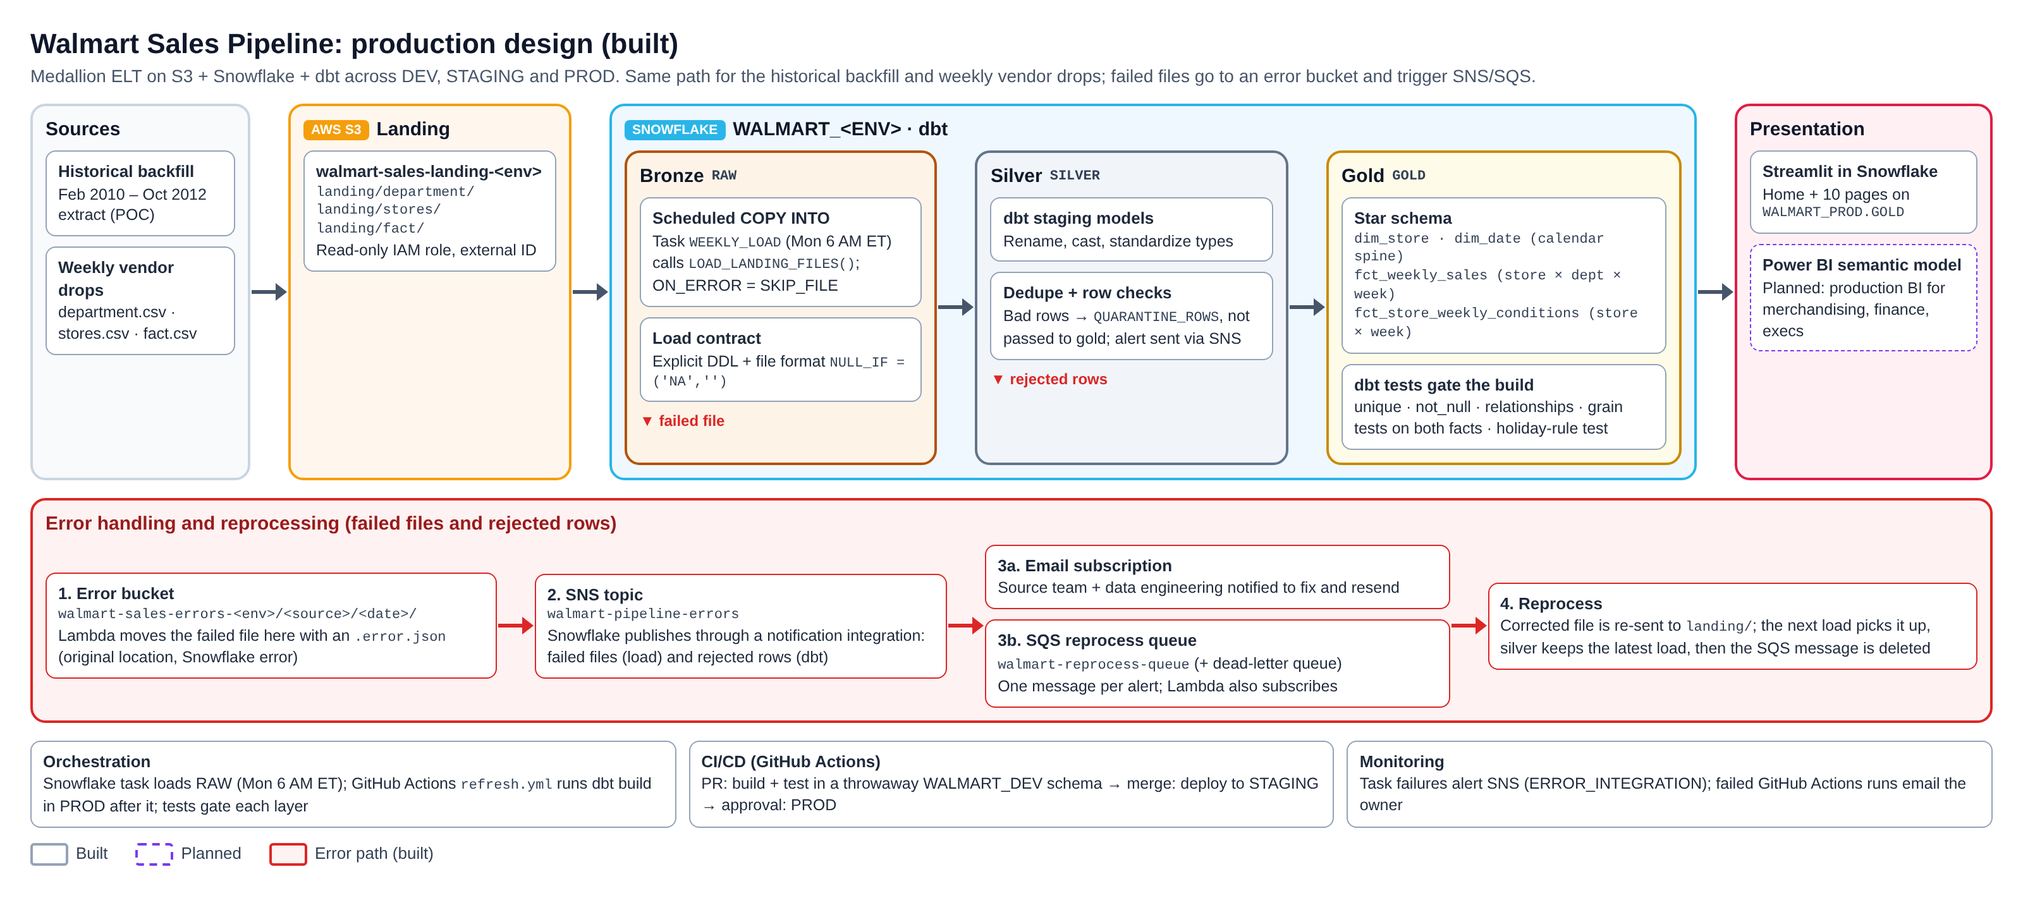
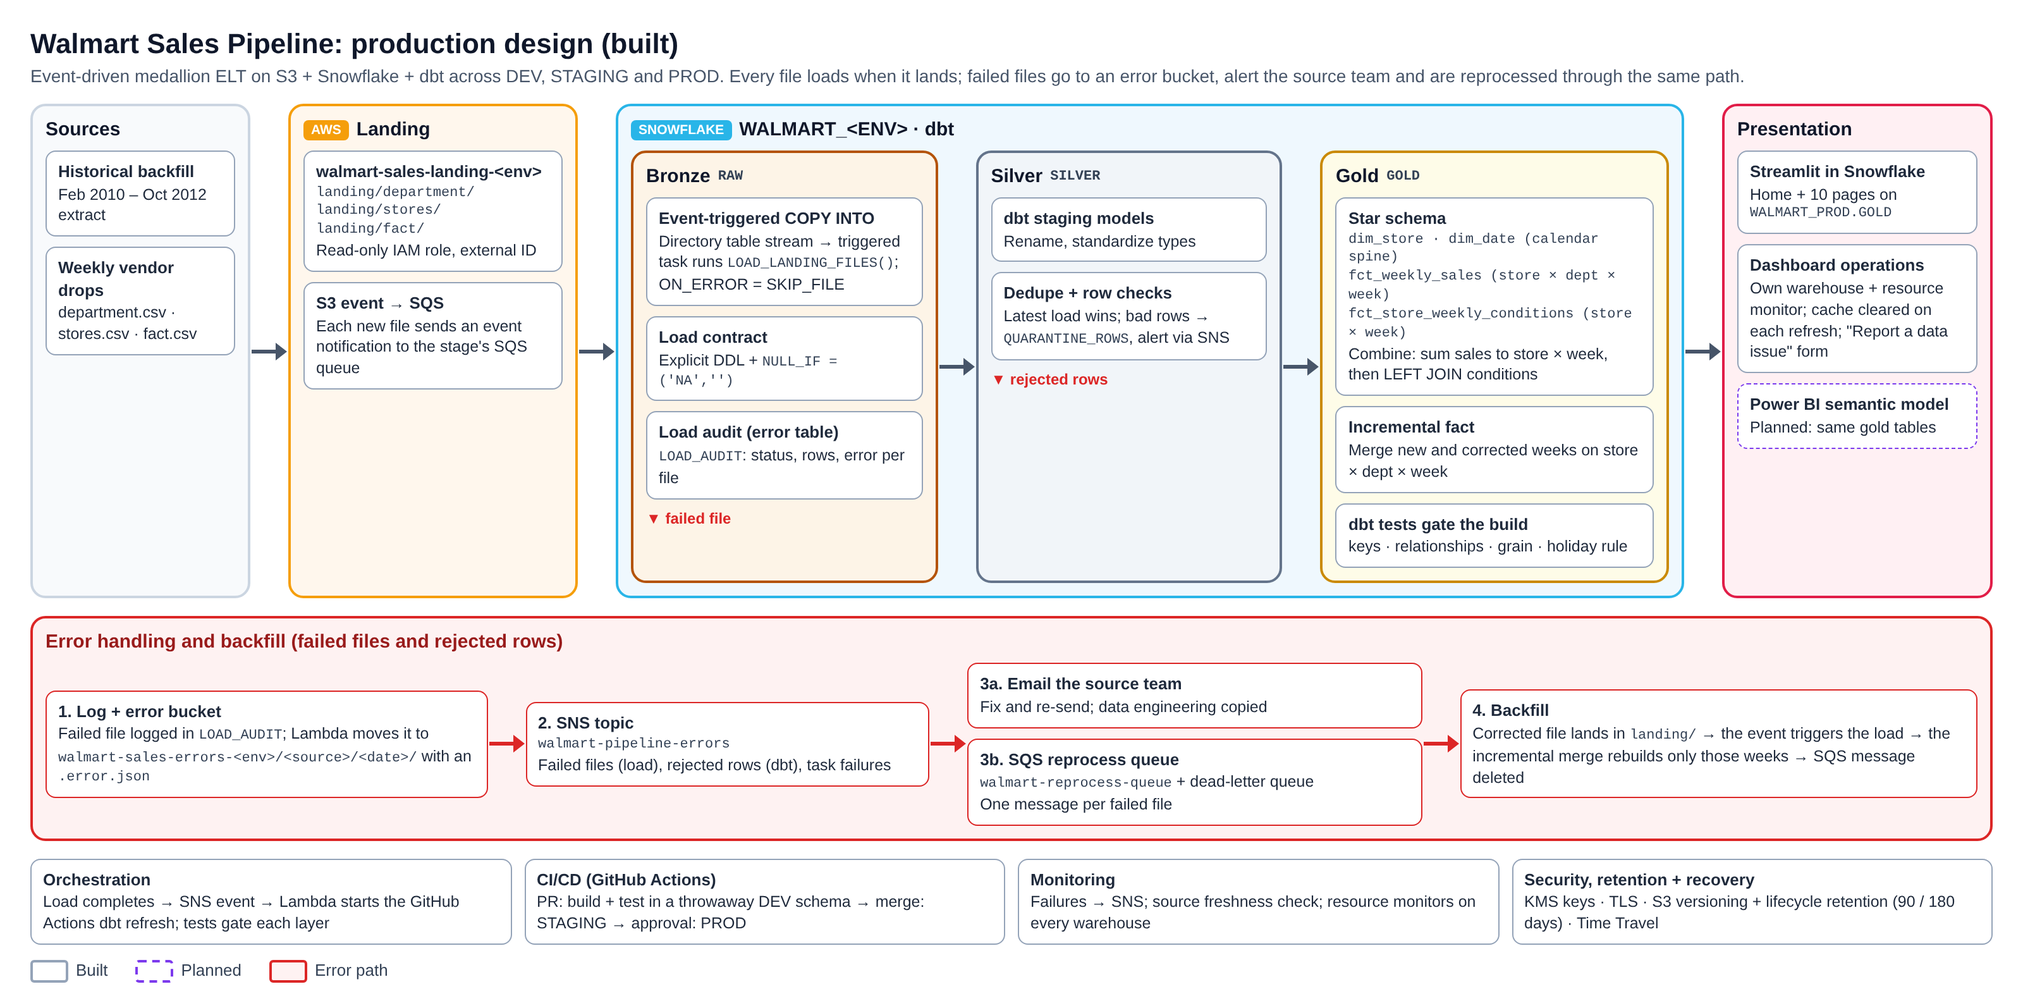
Add error path and update README, runbook and diagram to the production design

Changed region(s): [[0.0, 0.0312, 1.0, 0.9688]]

diff --git a/README.md b/README.md
@@ -3,50 +3,53 @@
 [![dbt CI](https://github.com/peter-rousseau518/walmart-sales-dbt-snowflake/actions/workflows/ci.yml/badge.svg)](https://github.com/peter-rousseau518/walmart-sales-dbt-snowflake/actions/workflows/ci.yml)
 [![dbt deploy](https://github.com/peter-rousseau518/walmart-sales-dbt-snowflake/actions/workflows/deploy.yml/badge.svg)](https://github.com/peter-rousseau518/walmart-sales-dbt-snowflake/actions/workflows/deploy.yml)
 
-An end-to-end analytics pipeline. Weekly CSV files land in S3, a scheduled Snowflake task loads them into a
-raw layer under an explicit load contract, dbt models them into a star schema (bronze → silver → gold), and a
-multi-page Streamlit in Snowflake app reads the gold tables. The pipeline runs in three environments (DEV,
-STAGING, PROD) with CI/CD in GitHub Actions, and failed files and rejected rows are routed to an error path
-with SNS alerts, an SQS reprocess queue and an error bucket.
+An event-driven analytics pipeline. Each CSV file that lands in S3 triggers a load into a Snowflake raw layer under
+an explicit load contract; dbt models it into a tested star schema (bronze → silver → gold); and a multi-page
+Streamlit in Snowflake app reads the gold tables. The pipeline runs in DEV, STAGING and PROD with CI/CD in GitHub
+Actions. Failed files and rejected rows follow an error path (load audit table, error bucket, SNS alerts to the
+source team, SQS reprocess queue with dead-letter queues) and are backfilled automatically when corrected.
 
 ## Architecture
 
-![Production design](docs/images/architecture-production-design.png)
+![Production architecture](docs/images/architecture-production-design.png)
 
 | Layer | Where | What happens |
 |---|---|---|
-| Landing | S3 `walmart-sales-landing-<env>` | Weekly files arrive in `landing/department/`, `landing/stores/`, `landing/fact/` |
-| Bronze | Snowflake `WALMART_<ENV>.RAW` | Task `WEEKLY_LOAD` (Mondays 6 AM ET) runs `LOAD_LANDING_FILES()`: COPY INTO typed tables, `ON_ERROR = SKIP_FILE` |
-| Silver | `WALMART_<ENV>.SILVER` | dbt views: rename, cast, de-duplicate (latest load wins), row checks; bad rows go to `QUARANTINE_ROWS` |
-| Gold | `WALMART_<ENV>.GOLD` | dbt tables: star schema with 2 dimensions and 2 facts, gated by tests |
-| Presentation | Streamlit in Snowflake | Home page + 10 pages reading `WALMART_PROD.GOLD` |
-| Error path | S3, SNS, SQS, Lambda | Failed files moved to `walmart-sales-errors-<env>`; alerts by email and to `walmart-reprocess-queue` |
+| Landing | S3 `walmart-sales-landing-<env>` | Files arrive in `landing/department/`, `landing/stores/`, `landing/fact/`; each new file sends an S3 event to SQS |
+| Bronze | Snowflake `WALMART_<ENV>.RAW` | The event triggers a task that runs `LOAD_LANDING_FILES()`: COPY INTO typed tables, `ON_ERROR = SKIP_FILE`, every file logged in `LOAD_AUDIT` |
+| Silver | `WALMART_<ENV>.SILVER` | dbt views: rename, standardize, de-duplicate (latest load wins), row checks; bad rows go to `QUARANTINE_ROWS` |
+| Gold | `WALMART_<ENV>.GOLD` | dbt tables: star schema with 2 dimensions and 2 facts (sales fact is incremental), gated by tests |
+| Presentation | Streamlit in Snowflake | Home page + 10 pages on `WALMART_PROD.GOLD`, on its own warehouse, with a "Report a data issue" form |
+| Error path | S3, SNS, SQS, Lambda | Failed files moved to `walmart-sales-errors-<env>`; source team emailed; `walmart-reprocess-queue` tracks the backfill |
 
 ## What I built
 
 - **Three environments** (DEV, STAGING, PROD): one S3 landing bucket and one Snowflake database each, connected
-  through a storage integration with a read-only IAM policy scoped to the `landing/` folders
+  through a storage integration with a read-only IAM role (external ID) scoped to the `landing/` folders
+- **Event-driven ingestion with SQS:** S3 event notifications go to an SQS queue; Snowflake refreshes the stage's
+  directory table, a stream records each new file, and a triggered task runs COPY INTO. COPY's load history means a
+  file never loads twice
 - **An explicit load contract:** typed raw tables with NOT NULL keys and a file format that turns "NA" into NULL.
   Every row records its source file, row number and load time
-- **Scheduled ingestion:** a Snowflake task calls a stored procedure that runs COPY INTO for each source. COPY
-  tracks load history, so files already loaded are never loaded twice (idempotent)
+- **A load audit (error) table:** `RAW.LOAD_AUDIT` records every file's status, row count and first error. If 900 of
+  1,000 files are good, those 900 flow through; the 100 bad files go to the error path
+- **Error handling with SNS and SQS:** failed files, rejected rows and task failures publish to the SNS topic
+  `walmart-pipeline-errors`, which emails the source team, adds a message to `walmart-reprocess-queue` (with a
+  dead-letter queue), and triggers a Lambda that moves the file to the error bucket with an `.error.json`
+- **Automatic backfill:** a corrected file re-sent to `landing/` triggers its own load; the incremental fact merges
+  only the affected weeks, and the SQS message is cleared once `LOAD_AUDIT` shows it loaded
 - **Medallion schemas:** RAW (bronze), SILVER (staging views and the quarantine table), GOLD (mart tables)
 - **Row-level data quality:** checks flag duplicates, unknown stores and missing sales. Good rows flow to gold; the
-  rest land in `SILVER.QUARANTINE_ROWS` with a `reject_reason`, and a warn-level test reports them
-- **Error path:** files that break the contract are skipped and published to SNS. A Lambda moves each failed file
-  to the error bucket with an `.error.json` describing why; email alerts the source team; the SQS queue (with a
-  dead-letter queue) tracks files waiting to be reprocessed. Rejected rows in PROD also trigger an SNS alert
-- **CI/CD with GitHub Actions:** every pull request is built and tested in its own throwaway schema in DEV; merging
-  to `main` deploys to STAGING, then to PROD after a manual approval. A scheduled workflow refreshes PROD after the
-  weekly load. CI runs as a key-pair service user with a least-privilege `TRANSFORMER` role
-- **A dbt project** with 2 dimensions (`dim_store`, and `dim_date` as a calendar spine) and 2 fact tables, each at
-  its true grain: `fct_weekly_sales` (store × department × week, about 421K rows) and `fct_store_weekly_conditions`
-  (store × week)
-- **dbt tests:** unique, not_null, relationships from each fact to each dimension, grain tests on both facts
-  (`dbt_utils.unique_combination_of_columns` plus a custom singular test), a test that the calendar's holiday rules
-  match the source holiday flags, and a warning test on quarantined rows
-- **A 10-page Streamlit app** covering sales by store, holiday, temperature, store size, store type, month,
-  markdowns, fuel price, CPI, and department
+  rest land in `SILVER.QUARANTINE_ROWS` with a `reject_reason`, and PROD sends an alert
+- **Incremental processing:** `fct_weekly_sales` reads only rows loaded since the last run and merges them on store,
+  department and week, so corrected weeks replace old rows instead of duplicating them
+- **CI/CD with GitHub Actions:** every pull request is built and tested in its own throwaway schema in DEV; merging to
+  `main` deploys to STAGING, then to PROD after a manual approval. After each load, a Lambda starts the dbt refresh in
+  PROD. CI runs as a key-pair service user with a least-privilege `TRANSFORMER` role
+- **dbt tests:** unique, not_null, relationships from each fact to each dimension, grain tests on both facts, a
+  holiday-rule test, a warning test on quarantined rows, and a source freshness check
+- **A 10-page Streamlit app** on its own warehouse with a resource monitor; its cache clears after every dbt refresh,
+  and a "Report a data issue" form sends problems straight to data engineering
 
 ## Data model
 
@@ -61,33 +64,39 @@ with SNS alerts, an SQS reprocess queue and an error bucket.
 
 ## Data quality decisions
 
-- Weekly conditions (temperature, CPI, fuel price, markdowns) are recorded per store and week, so they live in their
-  own fact table at that grain instead of repeating on every department row. To combine them with sales, aggregate
-  sales to store-week first, then join (the app does this).
-- The source writes missing values as the text "NA" (markdowns, CPI, unemployment). The load contract converts them
-  to NULL at the warehouse gate (`NULL_IF = ('NA', '')`). MarkDown1 is missing in about 51% of rows because markdown
-  data starts in November 2011.
-- Two levels of protection: **file level** (a file that breaks the contract is skipped whole and sent to the error
-  path) and **row level** (a bad row in a good file is quarantined, so one bad row never blocks a whole load).
-- Re-sent rows are de-duplicated in silver: the latest load wins, so a corrected file can simply be re-sent.
-- Grain tests check that no store/department/week (sales) or store/week (conditions) combination appears twice.
-- `dim_date` is generated as a calendar spine with retail holiday rules and a `has_sales` flag, so weeks without
-  sales data are never counted by mistake.
+- **Each fact at its own grain.** Weekly conditions (temperature, CPI, fuel price, markdowns) are recorded per store and
+  week, so they live in their own fact instead of repeating on every department row.
+- **Why a LEFT JOIN to combine them.** The app sums sales to store-week first, then LEFT JOINs the conditions fact on
+  store and week. LEFT keeps every sales week even if its conditions row is missing (an INNER JOIN would drop those
+  sales). The risks and how they're handled: fan-out (the conditions grain test guarantees one row per store-week, so
+  the join can't add rows); repeated values (joining at department grain overstated markdowns ~65× in my first
+  version, so the app aggregates first); and NULLs (shown as "no data", never as zero).
+- **"NA" handled at the gate.** The load contract converts "NA" to NULL (`NULL_IF = ('NA', '')`). MarkDown1 is missing
+  in about 51% of rows because markdown data starts in November 2011.
+- **Two levels of protection:** file level (a file that breaks the contract is skipped and sent to the error path) and
+  row level (a bad row in a good file is quarantined, so one bad row never blocks a load).
+- `dim_date` is a calendar spine with retail holiday rules and a `has_sales` flag, so empty weeks are never averaged.
 
-## Error handling and reprocessing
+## Security, retention and cost
 
-1. The weekly load skips any file that breaks the load contract (`ON_ERROR = SKIP_FILE`), so good files still load.
-2. The procedure collects the skipped files and publishes a `FAILED_FILES` message to the SNS topic
-   `walmart-pipeline-errors` through a Snowflake notification integration.
-3. SNS fans out to three subscribers: **email** (source team and data engineering), the **SQS** queue
-   `walmart-reprocess-queue` (one message per alert, with a dead-letter queue), and the **Lambda**
-   `walmart-move-failed-files`, which moves the file to `walmart-sales-errors-<env>/<source>/<date>/` with an
-   `.error.json` (original location, source table and Snowflake's first error).
-4. The source team fixes the file and re-sends it to `landing/`. The next load picks it up, silver keeps the latest
-   load, and the SQS message is deleted once the data is confirmed.
-5. If the task itself fails (for example, the stage can't be reached), its `ERROR_INTEGRATION` alerts the same topic.
+- **Access:** storage integration with an IAM role and external ID (no AWS keys stored); key-pair service user for CI;
+  no credentials in Git
+- **Encryption:** S3, SNS and SQS use KMS customer-managed keys, and the buckets deny non-TLS requests. Snowflake
+  encrypts all data at rest and in transit
+- **Data retention:** S3 versioning on the landing and error buckets; landing files move to Glacier after 90 days and
+  are kept 7 years; error files are deleted 180 days after they are fixed; `LOAD_AUDIT` keeps 2 years
+- **Backup and recovery:** Time Travel (7 days on RAW and GOLD) and Fail-safe; any layer can be rebuilt from the raw
+  files in S3
+- **Compute cost:** separate X-Small warehouses for transforms and the dashboard, 60-second auto-suspend, and resource
+  monitors that alert at 80% and suspend at 100% of the monthly quota
 
-The step-by-step runbook is in [docs/runbook.md](docs/runbook.md). Test files are in `aws/test-files/`.
+## Service levels
+
+- A new file is in the dashboard within 1 hour of landing; the weekly drop is visible by Monday 9:00 AM ET
+- The source team is emailed within minutes of a failed load
+- Data issues reported in the app are acknowledged within 1 business day and fixed or explained within 3
+
+The runbook for loads, failures and reprocessing is in [docs/runbook.md](docs/runbook.md).
 
 ## CI/CD and environments
 
@@ -99,9 +108,9 @@ The step-by-step runbook is in [docs/runbook.md](docs/runbook.md). Test files ar
 
 - `.github/workflows/ci.yml`: builds and tests each pull request; drops its schemas when the pull request closes
 - `.github/workflows/deploy.yml`: STAGING on merge, then PROD behind an approval gate
-- `.github/workflows/refresh.yml`: rebuilds PROD every Monday after the weekly load (or on demand after a reprocess)
+- `.github/workflows/refresh.yml`: rebuilds PROD after each load (started by Lambda) or on demand
 - `ci/profiles.yml`: connection targets for CI (secrets come from GitHub, never from the repo)
-- The `main` branch is protected: a pull request must pass the CI check before it can merge
+- The `main` branch is protected: a pull request must pass CI before it can merge
 
 ## Repository layout
 
@@ -109,17 +118,14 @@ The step-by-step runbook is in [docs/runbook.md](docs/runbook.md). Test files ar
 - `models/marts/`: gold dimensions and facts
 - `tests/`: custom dbt tests (grain, holiday rule, quarantine warning)
 - `macros/`: schema naming (SILVER/GOLD, prefixed in DEV and CI), CI schema cleanup, quarantine alert
-- `snowflake/00_account_setup.sql`: one-time account setup (warehouse, storage integration locations)
-- `snowflake/01_raw_layer_<env>.sql`: per-environment database, load contract and stage
-- `snowflake/02_ci_service_user.sql`: `TRANSFORMER` role and the `GITHUB_CI` key-pair service user
-- `snowflake/03_separate_silver_gold.sql`: SILVER and GOLD schemas
-- `snowflake/04_error_path.sql`: SNS notification integration, load procedures and the weekly load task
+- `snowflake/`: account setup, per-environment raw layer and load contract, CI service user, SILVER/GOLD schemas,
+  and the error path (notification integration, load procedures, load task)
 - `aws/iam/`: IAM policies (Snowflake read access, SNS publish, Lambda)
 - `aws/lambda/move_failed_files.py`: moves failed files to the error bucket
 - `aws/test-files/`: a bad and a corrected file for testing the error path
 - `.github/workflows/`, `ci/`: CI/CD pipeline
 - `streamlit_app/`: the Streamlit in Snowflake app
-- `profiles.yml.example`: sample dbt connection profile
+- `docs/runbook.md`: operating the pipeline
 
 ## Screenshots
 
@@ -133,26 +139,10 @@ The step-by-step runbook is in [docs/runbook.md](docs/runbook.md). Test files ar
 
 ![Screenshot 5](docs/images/shot-5.png)
 
-## How to run it
-
-1. Create the landing buckets (`walmart-sales-landing-<env>-<suffix>`) and upload each CSV to its folder:
-   `landing/department/`, `landing/stores/`, `landing/fact/`. Attach `aws/iam/snowflake-read-policy.json` to the
-   Snowflake IAM role.
-2. In Snowflake, run `snowflake/00_account_setup.sql` once, then `snowflake/01_raw_layer_<env>.sql` for each
-   environment, then `02_ci_service_user.sql` and `03_separate_silver_gold.sql`.
-3. Copy `profiles.yml.example` to `~/.dbt/profiles.yml` and fill in your account and credentials.
-4. Run `pip install -r ci/requirements.txt`, `dbt deps`, then `dbt build` (DEV). STAGING and PROD are deployed by
-   GitHub Actions; add the repository secrets `SNOWFLAKE_ACCOUNT`, `SNOWFLAKE_USER` and `SNOWFLAKE_PRIVATE_KEY`.
-5. Error path: create the error buckets, the SNS topic (email, SQS and Lambda subscribers), the SQS queue and
-   dead-letter queue, and the Lambda (policies in `aws/iam/`), then run `snowflake/04_error_path.sql`. Test it with
-   the files in `aws/test-files/` (see [docs/runbook.md](docs/runbook.md)).
-6. Create a Streamlit in Snowflake app and paste in the files from `streamlit_app/`.
-
 ## What's next
 
 - Power BI semantic model on the gold tables
-- Snowpipe auto-ingest if files start arriving more often than weekly
-- Load `fct_weekly_sales` incrementally as the data grows
+- Snowpipe if files start arriving continuously (thousands per hour)
 
 ## Data source
 
@@ -160,5 +150,5 @@ The step-by-step runbook is in [docs/runbook.md](docs/runbook.md). Test files ar
 
 ## Tools
 
-Snowflake (tasks, stored procedures, notification integrations), dbt, AWS (S3, IAM, SNS, SQS, Lambda),
+Snowflake (tasks, streams, stored procedures, notification integrations), dbt, AWS (S3, IAM, KMS, SNS, SQS, Lambda),
 GitHub Actions, Streamlit, SQL, Python

diff --git a/docs/runbook.md b/docs/runbook.md
@@ -1,34 +1,36 @@
-# Runbook: weekly load, failures and reprocessing
+# Runbook: loads, failures and reprocessing
 
-## Normal week
+## How a file flows
 
-| When (ET) | What | Where to check |
-|---|---|---|
-| Monday 6:00 AM | Task `WALMART_PROD.RAW.WEEKLY_LOAD` runs `LOAD_LANDING_FILES()` | `SELECT * FROM TABLE(INFORMATION_SCHEMA.TASK_HISTORY()) ORDER BY scheduled_time DESC;` |
-| Monday ~7–8 AM | GitHub Actions `dbt scheduled refresh` rebuilds PROD SILVER and GOLD | Actions tab → dbt scheduled refresh |
-| After refresh | Streamlit app shows the new week | `WALMART_PROD.GOLD` |
+1. A file lands in `landing/<source>/` in `walmart-sales-landing-<env>`.
+2. S3 sends an event notification to the stage's SQS queue; Snowflake refreshes the stage's directory table.
+3. A stream on the directory table records the new file, and the triggered task runs `RAW.LOAD_LANDING_FILES()`
+   (COPY INTO with `ON_ERROR = SKIP_FILE`). Every file's result is written to `RAW.LOAD_AUDIT`.
+4. When rows load, Snowflake publishes a "loaded" event to SNS, and a Lambda starts the GitHub Actions
+   **dbt scheduled refresh** workflow, which rebuilds SILVER and GOLD in PROD (tests gate each layer).
+5. The Streamlit cache clears on the next page view because the refresh time changed.
 
-COPY INTO remembers which files it has loaded, so re-running the task never loads the same file twice.
+COPY INTO remembers which files it has loaded, so a file never loads twice.
+
+| Check | Query or place |
+|---|---|
+| Recent loads | `SELECT * FROM WALMART_PROD.RAW.LOAD_AUDIT ORDER BY loaded_at DESC;` |
+| Task runs | `SELECT * FROM TABLE(INFORMATION_SCHEMA.TASK_HISTORY()) ORDER BY scheduled_time DESC;` |
+| dbt refresh | GitHub → Actions → dbt scheduled refresh |
 
 ## When a file fails
 
 You receive an email from SNS with `"type": "FAILED_FILES"`, listing each file, its table and Snowflake's first error.
 
 1. **Find the file.** The Lambda has moved it to `walmart-sales-errors-<env>/<source>/<YYYY-MM-DD>/`, next to a
-   `<file>.error.json` with the original location and the error.
-2. **Confirm nothing bad loaded.** The file was skipped as a whole (`ON_ERROR = SKIP_FILE`), so the raw table
-   row count is unchanged.
-3. **Send it back to the source team** with the error, or fix it if the problem is obvious (for example, a text
-   value in a numeric column).
-4. **Re-send the corrected file** to the same `landing/<source>/` folder. Give it a new file name, because COPY
-   skips a file name it has already seen.
-5. **Load it:** wait for the next Monday run, or run it now:
-   ```sql
-   CALL WALMART_PROD.RAW.LOAD_LANDING_FILES();
-   ```
-   Then run the GitHub Actions workflow **dbt scheduled refresh** by hand (Run workflow).
-6. **Close it out:** check the row count, then delete the message from `walmart-reprocess-queue` in SQS.
-   Messages that are received three times without being deleted move to `walmart-reprocess-dlq`.
+   `<file>.error.json` with the original location and the error. `LOAD_AUDIT` shows it as skipped.
+2. **Nothing bad loaded.** The file was skipped as a whole, so the raw table is unchanged; all other files loaded.
+3. **The source team fixes it** (they received the same email) and re-sends it to `landing/<source>/` under a new
+   file name, because COPY skips a name it has already seen.
+4. **The backfill runs itself:** the event triggers the load, the incremental fact merges only the affected weeks,
+   and dbt refreshes gold.
+5. **Close it out:** when `LOAD_AUDIT` shows the file loaded, delete its message from `walmart-reprocess-queue`.
+   Messages received three times without being deleted move to `walmart-reprocess-dlq`; check it weekly.
 
 ## When rows are rejected
 
@@ -49,17 +51,28 @@ GROUP BY 1, 2;
 Good rows from the same file are already in GOLD. When the corrected rows are re-sent, the latest load wins and
 the row leaves the quarantine table on the next dbt run.
 
+## When a user reports a data issue
+
+Reports from the app's "Report a data issue" form arrive by email and in the issues table.
+Acknowledge within 1 business day; fix or explain within 3.
+
 ## When the task itself fails
 
 The task's `ERROR_INTEGRATION` sends an email (for example, if Snowflake can't reach the stage). Check the
 error in `TASK_HISTORY`, fix it (often the storage integration or IAM trust policy), then run
-`EXECUTE TASK WALMART_PROD.RAW.WEEKLY_LOAD;`.
+`EXECUTE TASK WALMART_PROD.RAW.LOAD_ON_ARRIVAL;`.
+
+## Recovering a table
+
+- Dropped table: `UNDROP TABLE <name>;` (Time Travel, 7 days on RAW and GOLD)
+- Bad data in gold: clone from Time Travel, or rebuild with `dbt build --full-refresh` from RAW
+- Lost raw data: reload from the files in S3 (versioned; Glacier after 90 days)
 
 ## Testing the error path
 
 1. Upload `aws/test-files/fact_bad_test.csv` to `landing/fact/` in the landing bucket.
-2. `CALL WALMART_<ENV>.RAW.LOAD_LANDING_FILES();` → one failed file.
+2. The load runs on its own → `LOAD_AUDIT` shows one skipped file.
 3. Check: the email arrives, a message is in the SQS queue, the file is in the error bucket with its
    `.error.json`, and `RAW.FACT` still has 8,190 rows.
-4. Upload `aws/test-files/fact_fixed_test.csv` and call the procedure again → `RAW.FACT` has 8,191 rows.
+4. Upload `aws/test-files/fact_fixed_test.csv` → `RAW.FACT` has 8,191 rows.
 5. Delete the SQS message.
